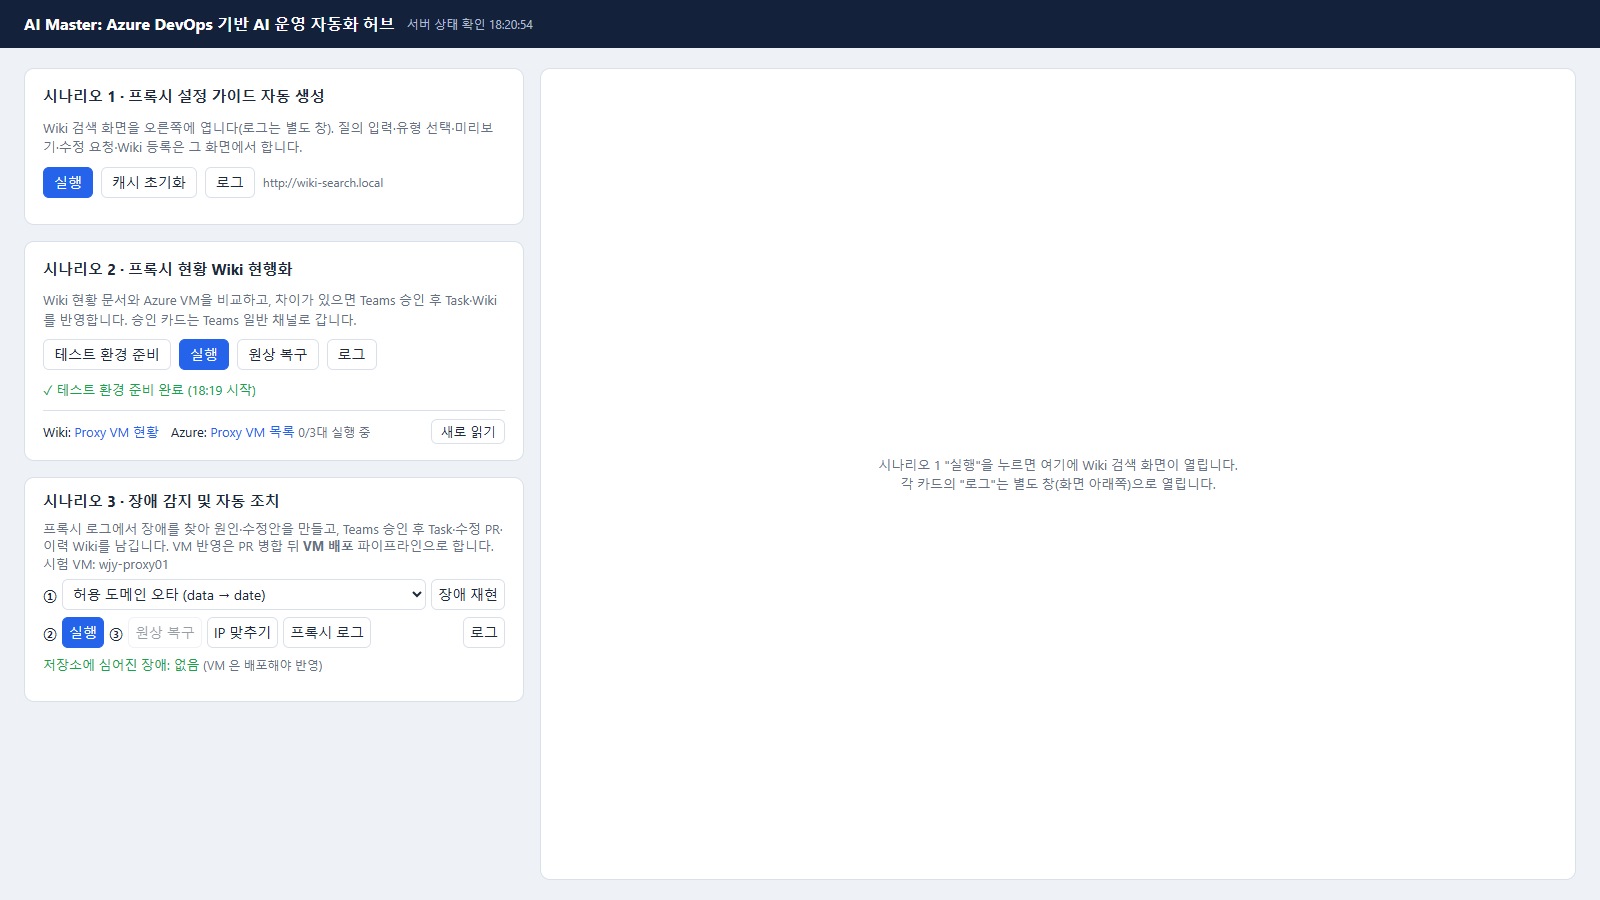
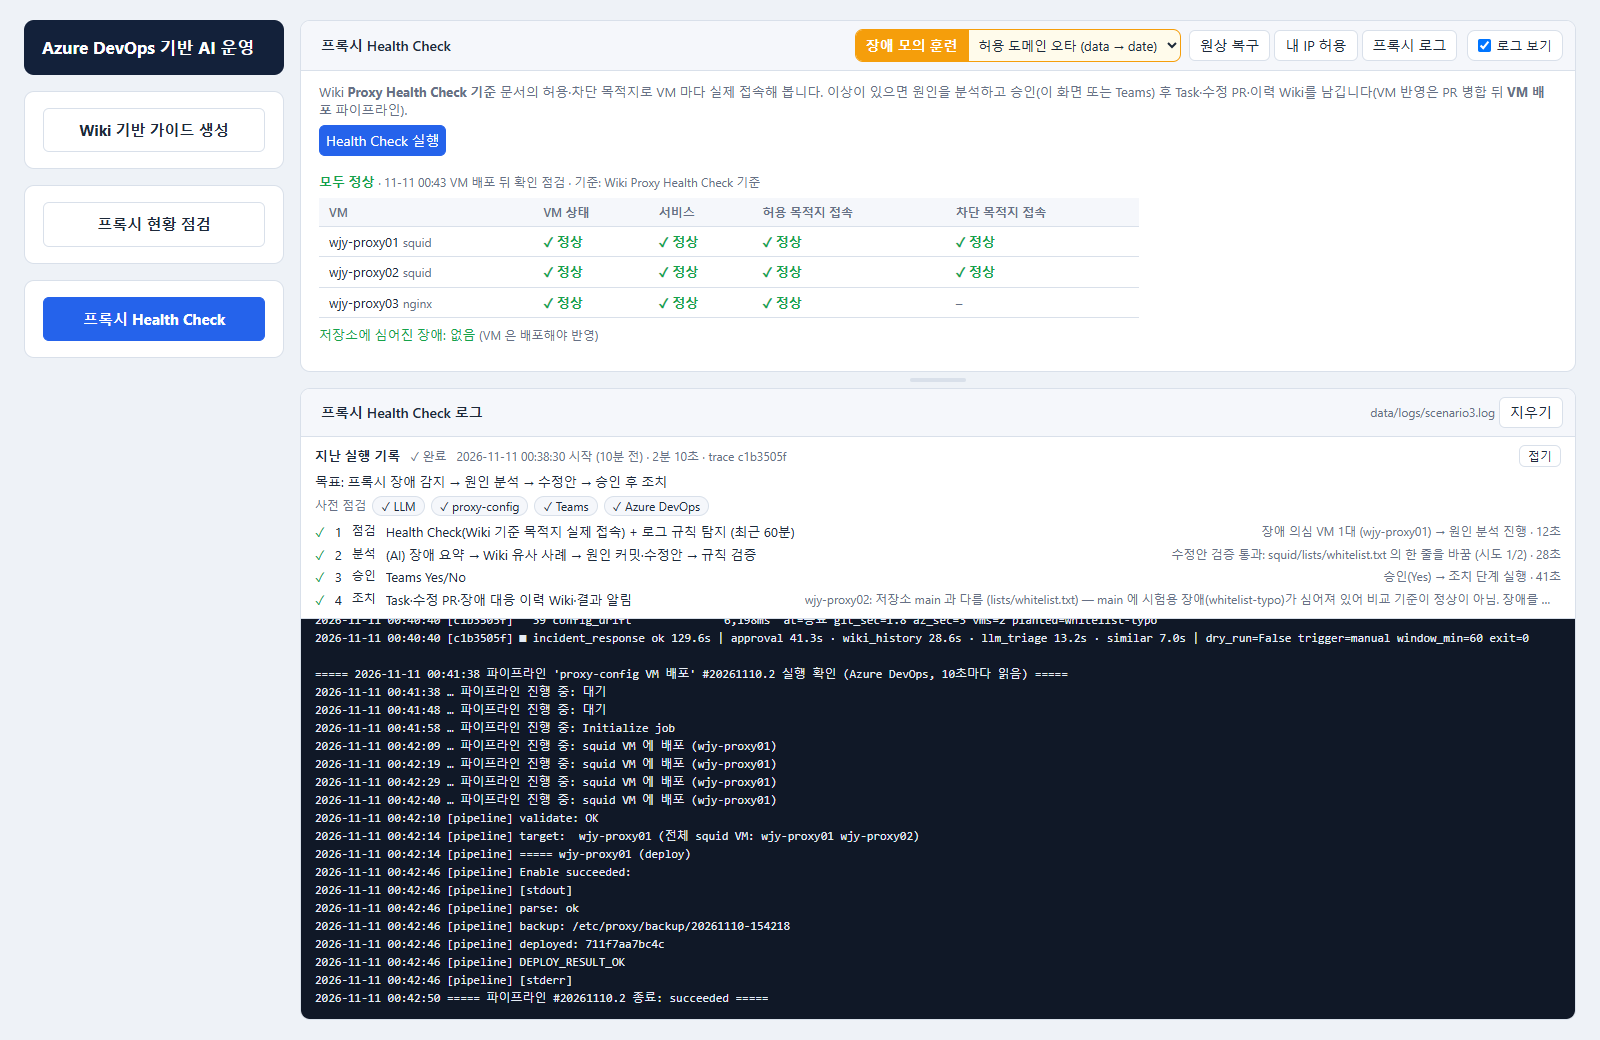
README: 시나리오 2·3은 점검 배치의 주기 실행을 전제로(구성은 안 함, 시연은 허브 수동 실행), 허브 화면 다시 촬영
- 개요 표 트리거·승인, 1.2·1.3 실행 방식, 흐름도 트리거, 단계 표, 처리 흐름 표를 '점검 배치(가정) · 시연은 수동'으로
- capture_readme.py --only hub 를 새 허브 화면(왼쪽 버튼, 오른쪽 화면, 아래 로그)에 맞게 다시 씀.
  CAPTURE_HUB_URL 로 허브 주소를 바꿀 수 있고, 접힌 '지난 실행 기록'은 펼쳐서 찍음
- hub-main·scenario3-run·hub-scenarios·hub-scenario1-log 다시 촬영, 그림 설명 갱신

diff --git a/test/capture_readme.py b/test/capture_readme.py
@@ -43,7 +43,7 @@ except ImportError:
 OUT = ROOT / "docs/images"
 EVIDENCE = ROOT / "data/readme-capture"
 SITES = {
-    "hub": "http://ai-master.local",
+    "hub": os.environ.get("CAPTURE_HUB_URL", "http://ai-master.local"),  # 허브를 다시 켜기 전 새 화면은 시험 서버 주소로
     "wiki": "http://wiki-search.local",
     "viewer": "http://wiki.local",
     "proxy": "http://proxy-log.local",
@@ -200,47 +200,53 @@ def scroll_to_last(page, marker: str):
 
 
 def hub(page):
+    """허브(왼쪽 시나리오 버튼 3개, 오른쪽 위 시나리오 화면, 아래 로그). 고른 시나리오마다 한 장씩 찍는다."""
     ready(page, SITES["hub"])
     # 허브는 처음 열 때 로그를 허브 시작 시점으로 '지우기'한다. 촬영은 지난 실행 로그가 필요하므로 전체 보기 상태로 다시 연다.
     page.evaluate("""async () => { const d = await (await fetch('/api/status')).json();
       localStorage.setItem('hub.logStartAt', (d.log_start || {}).at || ''); localStorage.setItem('hub.logCleared', '{}'); }""")
     ready(page, SITES["hub"])
-    try:  # 시나리오 2 카드 아래 Wiki·Azure 링크(az·DevOps 조회라 처음엔 수 초 걸림)
+    # 프록시 Health Check: 점검표 + 실행 계획 + 로그(전체 배치를 보이는 첫 장)
+    pick(page, "#s3open", "#s3health table")
+    plan_panel(page, mark_it=False)
+    shot(page, "hub-main.png")
+    mark(page, "document.getElementById('s3health')")
+    shot(page, "scenario3-run.png")
+    # 프록시 현황 점검: Wiki·Azure 링크(az·DevOps 조회라 처음엔 수 초) + 비교표 + 실행 계획
+    pick(page, "#s2open", "#s2result table")
+    try:
         page.wait_for_function("!document.getElementById('s2links').textContent.includes('불러오는 중')", timeout=60000)
     except Exception:
         print("s2links: 링크를 못 읽어 불러오는 중 상태로 찍음", flush=True)
-    shot(page, "hub-main.png")
-    # 로그는 별도 창(허브 페이지의 로그 전용 모드 /?log=<키>)이라 그 주소를 같은 탭에서 열어 찍는다.
-    log_window(page, "scenario2", "시나리오 2 로그", "proxy_status_sync")
-    # 마지막 실제 실행(승인까지 한 실행) 시작 줄로 스크롤한다. 그 뒤의 '새로 읽기' 기록 줄은 화면 아래로 밀린다.
-    scroll_to_last(page, "시작: proxy_status_sync.py ")
     plan_panel(page)
     shot(page, "hub-scenarios.png")
-    log_window(page, "scenario3", "시나리오 3 로그", "incident_response")
-    # 실행 시작 직후의 배포 설정 점검 줄 대신 계획(◆ Planning)부터 보이게 한다
-    scroll_to_last(page, "6-step plan generated")
-    plan_panel(page)
-    shot(page, "scenario3-run.png")
-    # 시나리오 1(Wiki 검색 서버) 로그: 로그 위 실행 계획 패널에 가장 최근 질의 1건의 4단계 진행
-    log_window(page, "wiki-search", "시나리오 1 · Wiki 검색 서버 로그", "guide/stream")
-    scroll_to_last(page, "▶ guide/stream")
+    # Wiki 기반 가이드 생성: 오른쪽 위 Wiki 검색 화면 + 아래 Wiki 검색 서버 로그(가장 최근 질의 1건의 실행 계획)
+    pick(page, "#s1run", "#s1frame")
+    page.wait_for_timeout(2500)
     plan_panel(page)
     shot(page, "hub-scenario1-log.png")
 
 
-def log_window(page, key: str, title: str, expect: str):
-    """허브 로그 창(/?log=<key>)을 열고 로그에 expect 가 나올 때까지 기다린다."""
-    from urllib.parse import quote
-    ready(page, f"{SITES['hub'].rstrip('/')}/?log={quote(key)}&t={quote(title)}")
-    page.wait_for_function("(m) => document.querySelector('#slog').textContent.includes(m)", arg=expect, timeout=30000)
+def pick(page, button: str, ready_sel: str):
+    """왼쪽 시나리오 버튼을 누르고 화면·로그가 그려질 때까지 기다린다. 표시 칸(빨간 테두리)은 지운다."""
+    page.evaluate("document.querySelectorAll('.readme-mark').forEach(e => e.remove())")
+    page.locator(button).click()
+    page.locator(ready_sel).first.wait_for(timeout=30000)
+    page.wait_for_function("document.getElementById('slog').textContent.length > 50", timeout=30000)
+    page.wait_for_timeout(1500)
 
 
-def plan_panel(page):
-    """로그 위 실행 계획 패널이 그려질 때까지 기다리고(펼친 상태로) 빨간 테두리를 친다."""
+def plan_panel(page, mark_it: bool = True):
+    """로그 위 실행 계획 패널이 그려질 때까지 기다리고(펼친 상태로) 빨간 테두리를 친다.
+    허브를 켜기 전 실행은 '지난 실행 기록'으로 접혀 있으므로 펼친다."""
+    page.wait_for_function("(() => { const p = document.getElementById('splan'); return p && !p.hidden; })()", timeout=15000)
+    page.evaluate("""() => { const b = [...document.querySelectorAll('#splan .ph button')].find(x => x.textContent.includes('펼치기'));
+      if (b) b.click(); }""")
     page.wait_for_function("(() => { const p = document.getElementById('splan'); return p && !p.hidden && p.querySelector('li'); })()",
                            timeout=15000)
     page.wait_for_timeout(300)
-    mark(page, "document.getElementById('splan')")
+    if mark_it:
+        mark(page, "document.getElementById('splan')")
 
 
 def proxy(page):
